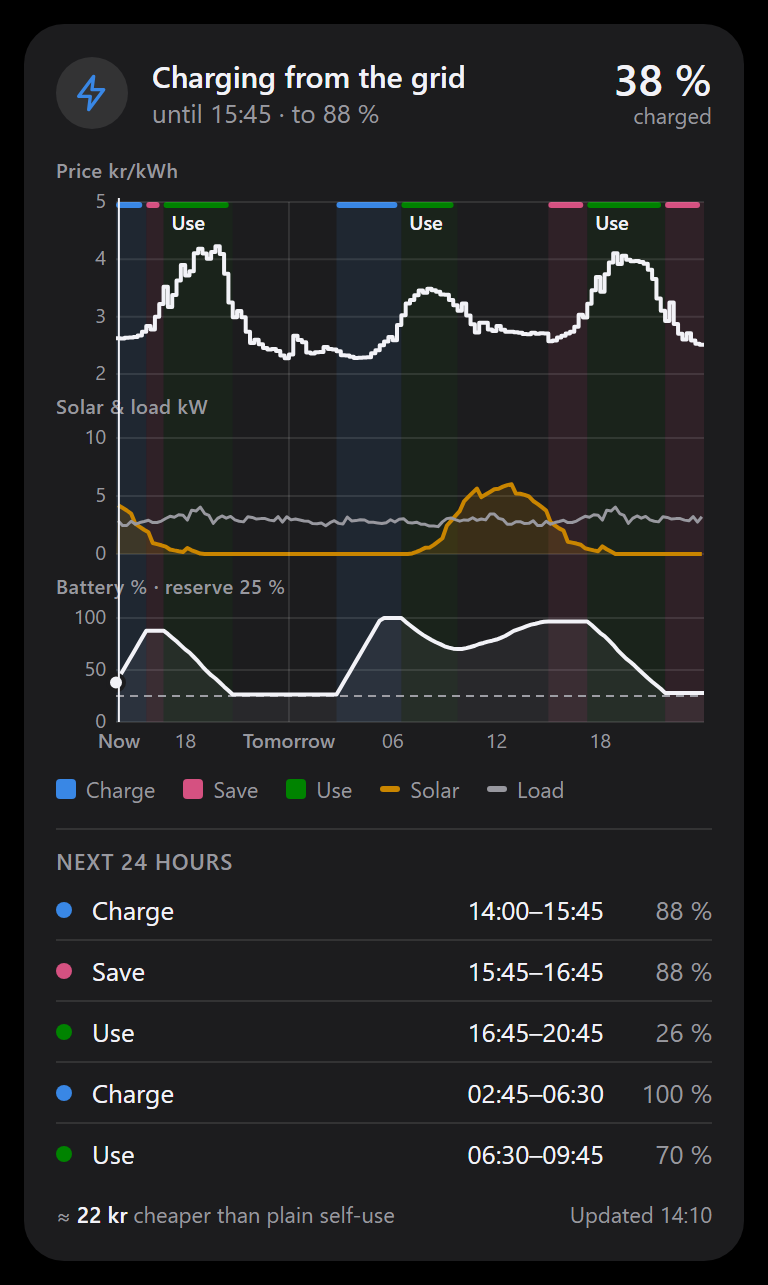
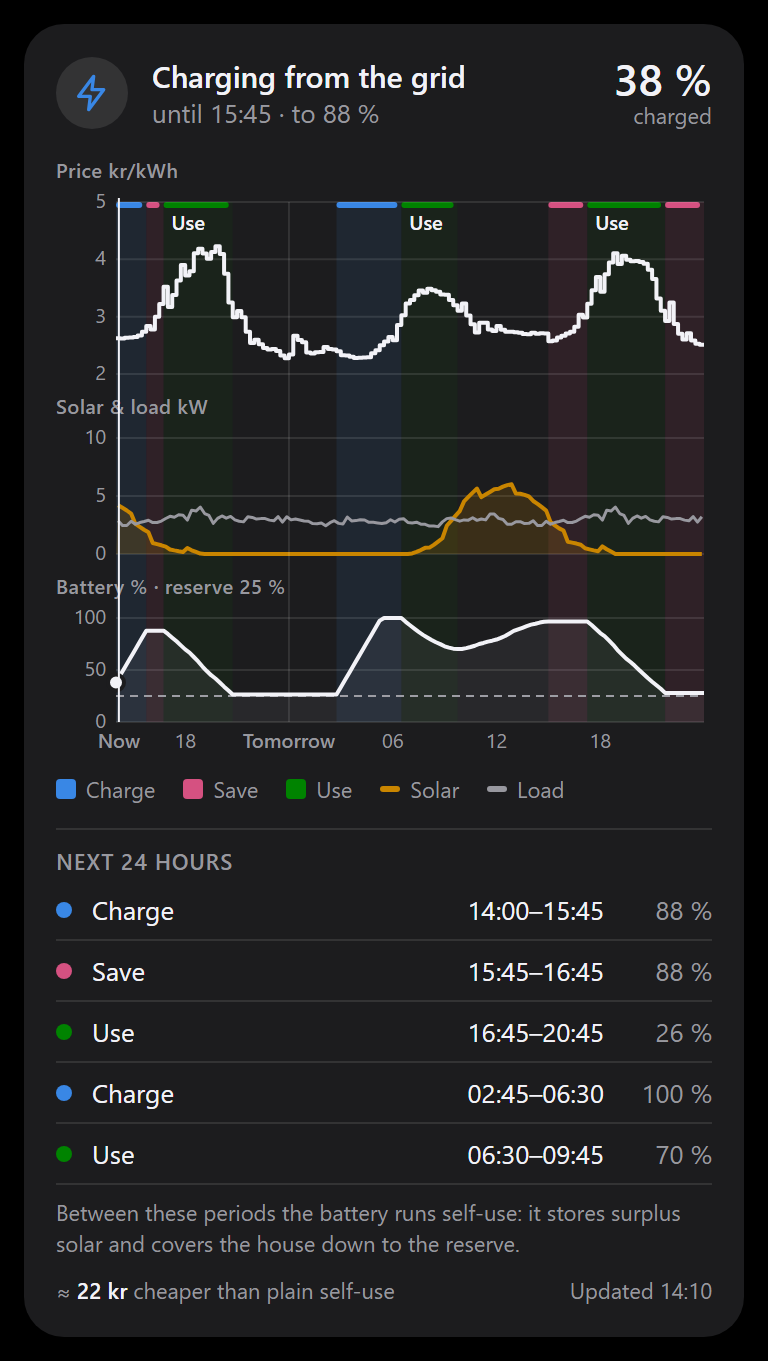
Hide brief battery dips; explain what happens between periods
"Use" periods shorter than 30 minutes or below 0.5 kWh are shown as
self-use in the widget and on the device tile, and the list explains
that the battery runs self-use between the listed periods.

diff --git a/homey-app/widgets/battery-plan/public/index.html b/homey-app/widgets/battery-plan/public/index.html
@@ -72,6 +72,7 @@
     .row .when { font-variant-numeric: tabular-nums; }
     .row .target { color: var(--c-muted); font-variant-numeric: tabular-nums; min-width: 44px; text-align: right; }
     .empty { color: var(--c-muted); font-size: 13px; padding: 6px 0; }
+    .note { color: var(--c-muted); font-size: 11px; line-height: 1.4; padding-top: 6px; border-top: 1px solid var(--c-grid); }
 
     .footer { display: flex; justify-content: space-between; gap: 8px; margin-top: var(--homey-su-2, 8px); font-size: 11px; color: var(--c-muted); }
     .footer b { color: var(--c-ink); font-weight: 600; }
@@ -99,6 +100,7 @@
         price: 'Price kr/kWh', energy: 'Solar & load kW', battery: 'Battery %',
         solar: 'Solar', load: 'Load', reserve: 'Reserve', now: 'Now',
         next24: 'Next 24 hours', noSlots: 'Nothing planned – the battery runs on self-use.',
+        between: 'Between these periods the battery runs self-use: it stores surplus solar and covers the house down to the reserve.',
         saves: (kr) => `≈ <b>${kr} kr</b> cheaper than plain self-use`,
         updated: (t) => `Updated ${t}`,
         waiting: 'Waiting for the first plan…', notPaired: 'Add your Solis inverter in Homey to see the plan.',
@@ -118,6 +120,7 @@
         price: 'Pris kr/kWh', energy: 'Sol & förbrukning kW', battery: 'Batteri %',
         solar: 'Sol', load: 'Förbrukning', reserve: 'Reserv', now: 'Nu',
         next24: 'Kommande 24 timmar', noSlots: 'Inget planerat – batteriet går på egenanvändning.',
+        between: 'Mellan perioderna går batteriet på egenanvändning: det lagrar solöverskott och försörjer huset ner till reserven.',
         saves: (kr) => `≈ <b>${kr} kr</b> billigare än vanlig egenanvändning`,
         updated: (t) => `Uppdaterad ${t}`,
         waiting: 'Väntar på den första planen…', notPaired: 'Lägg till din Solis-växelriktare i Homey för att se planen.',
@@ -170,14 +173,27 @@
       return view.plan.intervals.filter((iv) => new Date(iv.t).getTime() < end);
     }
 
-    /** Groups consecutive intervals with the same action into blocks. */
+    /**
+     * Groups consecutive intervals with the same action into blocks. Brief "use" dips (under
+     * 30 minutes or 0.5 kWh) are shown as self-use, like on the device tile.
+     */
     function blocks(intervals) {
       const out = [];
       intervals.forEach((iv, i) => {
+        const kwh = Math.max(0, -(iv.batteryKw || 0) / 4);
         const last = out[out.length - 1];
-        if (last && last.action === iv.action) { last.to = i; last.soc = iv.soc; } else out.push({ action: iv.action, from: i, to: i, soc: iv.soc });
+        if (last && last.action === iv.action) { last.to = i; last.soc = iv.soc; last.kwh += kwh; }
+        else out.push({ action: iv.action, from: i, to: i, soc: iv.soc, kwh });
       });
-      return out;
+      const merged = [];
+      for (const b of out) {
+        const minutes = (b.to - b.from + 1) * 15;
+        const action = b.action === 'use' && (minutes < 30 || b.kwh < 0.5) ? 'self_use' : b.action;
+        const last = merged[merged.length - 1];
+        if (last && last.action === action) { last.to = b.to; last.soc = b.soc; last.kwh += b.kwh; }
+        else merged.push({ ...b, action });
+      }
+      return merged;
     }
 
     function renderHeader(root, intervals) {
@@ -457,6 +473,12 @@
         row.querySelector('.when').textContent = `${fmtTime(intervals[b.from].t)}–${fmtTime(end)}`;
         row.querySelector('.target').textContent = `${Math.round(b.soc)} %`;
         section.appendChild(row);
+      }
+      if (upcoming.length) {
+        const note = document.createElement('div');
+        note.className = 'note';
+        note.textContent = T.between;
+        section.appendChild(note);
       }
       root.appendChild(section);
     }

diff --git a/homey-app/lib/planner/summary.ts b/homey-app/lib/planner/summary.ts
@@ -12,6 +12,9 @@ const WORDS: Record<Language, Record<DisplayState | 'now' | 'until' | 'none', st
 
 /** A quarter-hour counts as "use" when the battery is planned to deliver at least this (kWh). */
 const MIN_USE_KWH_PER_QUARTER = 0.05;
+/** A "use" period is only worth showing when it lasts and delivers this much. */
+export const MIN_USE_MINUTES = 30;
+export const MIN_USE_KWH = 0.5;
 
 /**
  * A "save" only makes sense with a meaningful amount of energy above the reserve (5 percentage
@@ -39,17 +42,36 @@ interface Block {
   action: DisplayState;
   start: Date;
   end: Date;
+  kwh: number; // energy delivered by the battery (use blocks)
 }
 
 function blocks(intervals: PlannedInterval[], reserveSoc: number): Block[] {
   const out: Block[] = [];
   for (const iv of intervals) {
     const action = displayState(iv, reserveSoc);
+    const kwh = Math.max(0, -iv.batteryKwh);
     const last = out[out.length - 1];
-    if (last && last.action === action && last.end.getTime() === iv.start.getTime()) last.end = iv.end;
-    else out.push({ action, start: iv.start, end: iv.end });
+    if (last && last.action === action && last.end.getTime() === iv.start.getTime()) {
+      last.end = iv.end;
+      last.kwh += kwh;
+    } else {
+      out.push({ action, start: iv.start, end: iv.end, kwh });
+    }
   }
-  return out;
+  // Brief dips where the house slightly exceeds solar are noise: show them as self-use.
+  const merged: Block[] = [];
+  for (const b of out) {
+    const minutes = (b.end.getTime() - b.start.getTime()) / 60_000;
+    const action = b.action === 'use' && (minutes < MIN_USE_MINUTES || b.kwh < MIN_USE_KWH) ? 'self_use' : b.action;
+    const last = merged[merged.length - 1];
+    if (last && last.action === action) {
+      last.end = b.end;
+      last.kwh += b.kwh;
+    } else {
+      merged.push({ ...b, action });
+    }
+  }
+  return merged;
 }
 
 /**

diff --git a/homey-app/test/summary.test.ts b/homey-app/test/summary.test.ts
@@ -35,6 +35,11 @@ describe('planSummary', () => {
     assert.equal(planSummary(evening2, new Date('2026-09-24T18:16:00+02:00'), 25, TZ), 'Use battery until 21:45 · Save 21:45–07:15');
   });
 
+  it('leaves out brief dips where the battery helps a little', () => {
+    const morning = withBattery(plan('2026-09-25T09:00:00+02:00', [['self_use', 16, 26]]), -0.1, 0, 2); // 0.2 kWh in 30 min
+    assert.equal(planSummary(morning, new Date('2026-09-25T09:00:00+02:00'), 25, TZ), 'Self-use now · no charging or saving needed');
+  });
+
   it('says until when the current action lasts', () => {
     const night = plan('2026-09-25T02:00:00+02:00', [['charge', 13, 30], ['hold', 7, 80], ['self_use', 4, 80]]);
     assert.equal(planSummary(night, new Date('2026-09-25T02:05:00+02:00'), 25, TZ), 'Charge until 05:15 · Save 05:15–07:00');

diff --git a/docs/USER-GUIDE.md b/docs/USER-GUIDE.md
@@ -54,6 +54,8 @@ Dark mode: [battery plan](images/battery-plan-dark.png), [battery status](images
 - **Touch and drag** across the charts (or use the arrow keys) to see price, action, solar, load and
   battery level for any quarter-hour.
 - **Next 24 hours** lists the charge, save and use periods with the battery level they end at.
+  Brief dips (under 30 minutes or 0.5 kWh) are left out. Between the periods the battery runs
+  self-use: it stores surplus solar and covers the house down to the reserve.
 - **Bottom line**: how much the plan saves compared with plain self-use, and when it was updated.
 
 Widget settings: *Time shown* (24, 36 or 48 hours) and *Show solar and load forecast*.
